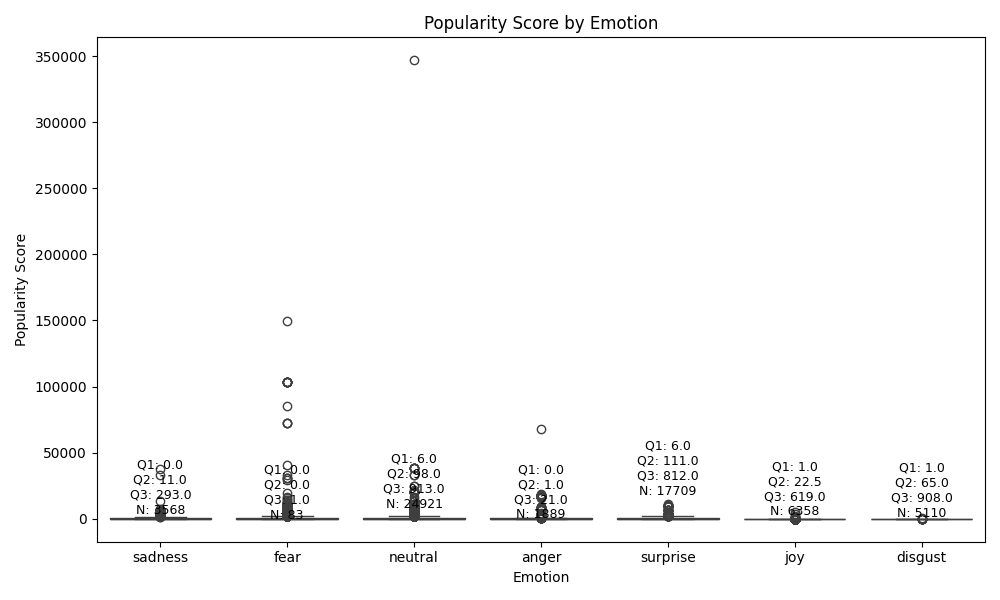
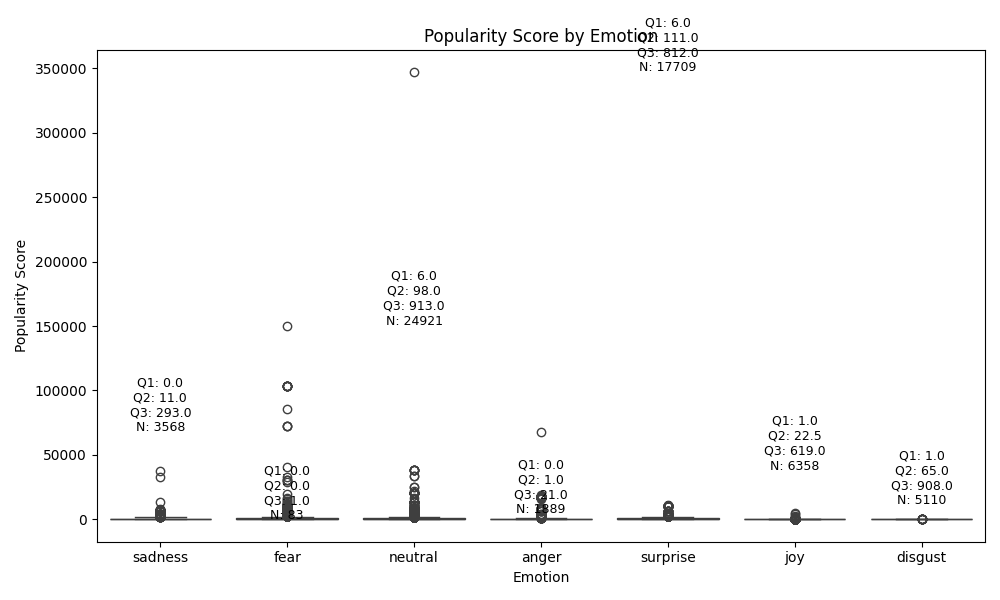
tinkered with spacing

diff --git a/Phase-2/Scripts/regression.py b/Phase-2/Scripts/regression.py
@@ -110,7 +110,7 @@ def main():
             f"Q3: {stats['75%']:.1f}\n"
             f"N: {int(stats['count'])}"
         )
-        y_pos = stats["75%"] + 0.05 * stats["max"]  # 5% above Q3 for spacing
+        y_pos = stats["75%"] + 1 * stats["max"]  # 5% above Q3 for spacing
         plt.text(i, y_pos, label, ha='center', fontsize=9, color="black")
 
     plt.title("Popularity Score by Emotion")
